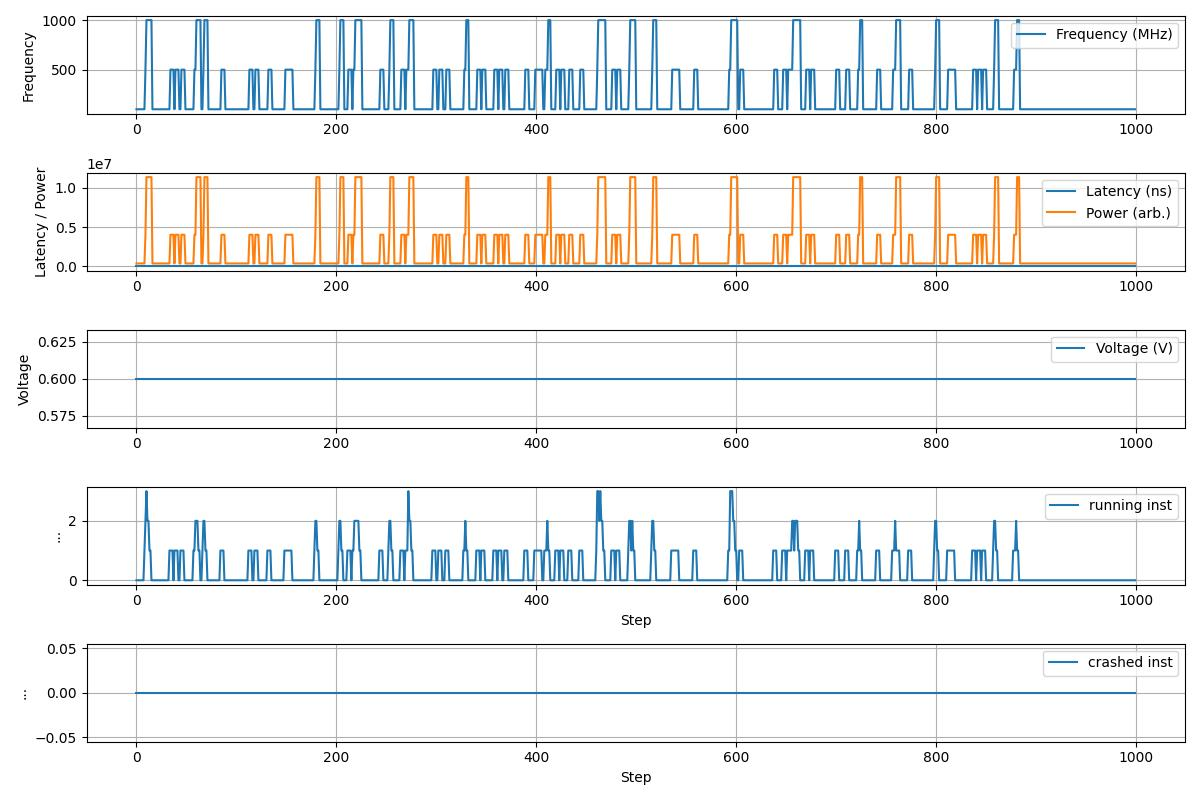
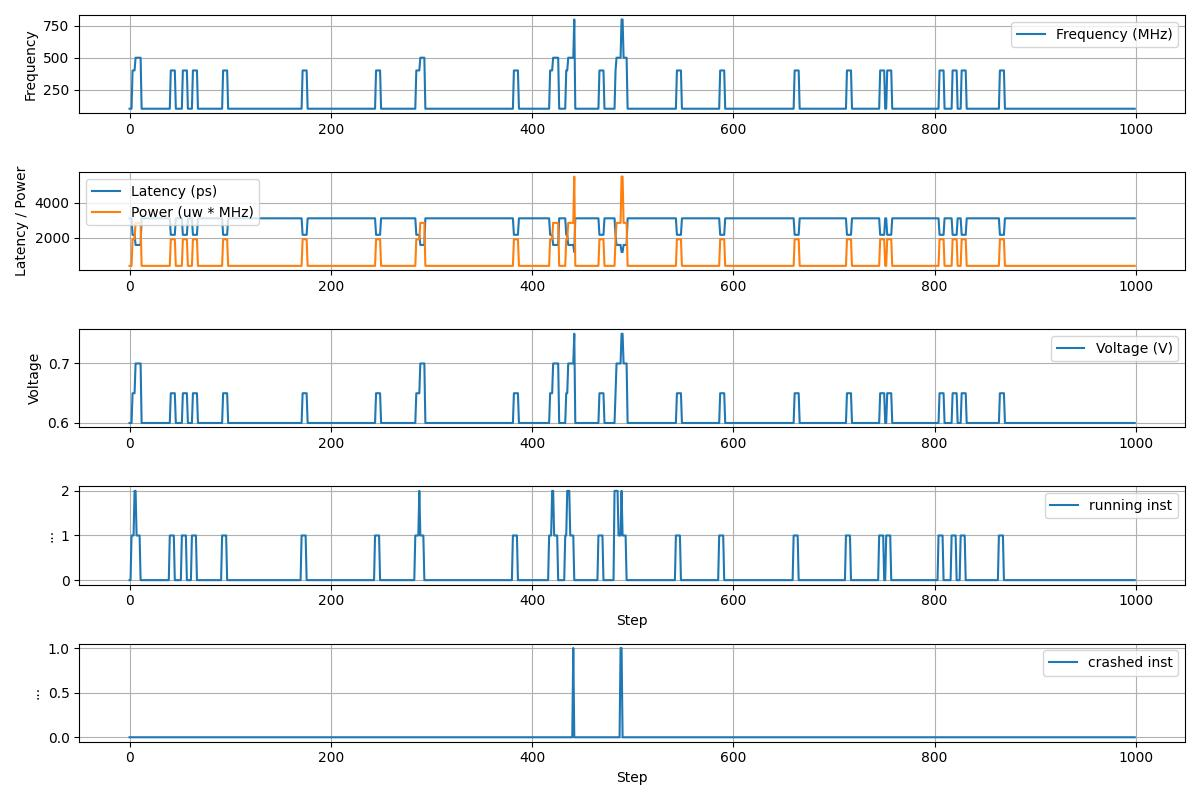
RL: added transistor mapping to RL

diff --git a/RL/HEnvDQN.py b/RL/HEnvDQN.py
@@ -6,9 +6,10 @@ import random
 import math
 from typing import List
 from copy import deepcopy
+from collections import defaultdict
 
 from tool.log import Log
-import cadence
+from cadence.hardware import Hardware, hardware_debug
 
 MAX_STEP = 1000
 MAX_BACKLOG_SIZE = 1000
@@ -119,12 +120,29 @@ class Backlog():
         return True
 
 
-def random_backlog(inst_length):
+def random_backlog(inst_length, distance=0, max_rate=1000, force_length=False):
+    """in distance, only max_rate instruction exist concurently"""
     inst_lst = []
+    step_set = dict()
     for i in range(inst_length):
         start_step = random.randrange(0, MAX_STEP-100)
-        inst = Instruction(start_step, 5)  
-        inst_lst.append(inst)
+        inst = Instruction(start_step, 5)
+        
+        exist = False
+        counter = 0
+        for dis in range(-distance, distance+1):
+            if step_set.get(inst.start_step + dis, -1) == -1:
+                step_set[inst.start_step + dis] = 0
+            counter += step_set[inst.start_step + dis]
+            if counter == max_rate:
+                exist = True
+                break
+        
+        if not exist:
+            inst_lst.append(inst)
+            step_set[inst.start_step] += 1
+        elif force_length:
+            i -= 1
     inst_lst.sort(key = lambda inst: inst.start_step)
     return Backlog(inst_lst)
 
@@ -145,32 +163,30 @@ class SystolicArrayEnv(gym.Env):
     def __init__(self):
         super().__init__()
 
-        self.voltage_levels = [0.60, 0.70, 0.80, 0.90]
+        self.hardware = Hardware()
+
         self.frequency_levels = list(range(100, 1000+1, 100))
 
-        self.Nv = len(self.voltage_levels)
         self.Nf = len(self.frequency_levels)
-        self.action_space = spaces.Discrete(self.Nv * self.Nf)
+        self.action_space = spaces.Discrete(self.Nf)
 
         # observation: volt_norm, freq_norm, latency_norm, power_norm, backlog_norm, processed_norm, insert_rate_norm
-        low = np.array([0.]*6, dtype=np.float32)
-        high = np.array([1.]*6, dtype=np.float32)
+        low = np.array([0.]*4, dtype=np.float32)
+        high = np.array([1.]*4, dtype=np.float32)
         self.observation_space = spaces.Box(low=low, high=high, dtype=np.float32)
 
         # parameters
-        # self.max_backlog = MAX_BACKLOG_SIZE
         self.max_backlog = 5
         self.max_step = MAX_STEP
         self.max_processed = 25
 
-        self.max_voltage = float(self.voltage_levels[-1])
+        self.max_voltage = self.hardware.get_max_mapping_voltage()
         self.max_frequency = float(self.frequency_levels[-1])
-        # for normalization stable nonzero denominators
-        self.max_latency = self._latency_from_freq(max(1, int(self.max_frequency)))
-        self.max_power = self._power_from_freq(self.max_voltage, self.max_frequency)
+        self.max_latency = self.hardware.get_max_mapping_delay()
+        self.max_power = self.hardware.get_max_mapping_power() * self.max_frequency
 
         # internal state
-        self.current_voltage = 0.0
+        self.vdd = 0.0
         self.current_frequency = 0.0
 
         self.latency = 0.0
@@ -185,38 +201,26 @@ class SystolicArrayEnv(gym.Env):
         self.prev_frequency = 0.0
         self.current_step = 0
 
-        # random seed
         self.seed()
 
-    # ----------------- gym API -----------------
     def seed(self, s=None):
         random.seed(s)
         np.random.seed(s)
 
+
     def reset(self, insert_rate=None):
-        # choose start volt/freq (middle)
-        self.current_voltage = self.voltage_levels[0]
         self.current_frequency = self.frequency_levels[0]
         self.prev_frequency = self.current_frequency
+        self.vdd = self.hardware.get_vdd(self.current_frequency)
 
-        # backlog random start small to encourage learning
-        self.backlog = random_backlog(100)
+        self.backlog = random_backlog(30, distance=4, max_rate=2)
         self.backlog_running = self.backlog.count_running() #random.randint(0, max(1, self.max_backlog // 10))
         self.backlog_crashed = self.backlog.count_crashed(0)
-        # self.processed = 0
-
-        # choose fixed insert_rate for the whole episode (so agent can learn to adapt)
-        # if insert_rate is None:
-        #     # choose between 0..max_insert
-        #     max_insert = max(1, self.max_backlog // 40)
-        #     self.insert_rate = random.randint(0, max_insert)
-        # else:
-        #     self.insert_rate = int(insert_rate)
-        # self.insert_rate = 0
 
         self.current_step = 0
         self._update_derived()
         return self._get_obs()
+
 
     def step(self, action, inference=False):
         """
@@ -231,22 +235,15 @@ class SystolicArrayEnv(gym.Env):
         assert self.action_space.contains(action), "Invalid action"
 
         # map action int -> (v_idx, f_idx)
-        v_idx = action // self.Nf
-        f_idx = action % self.Nf
+        # v_idx = action // self.Nf
+        f_idx = action #% self.Nf
         # clamp indices
-        v_idx = int(np.clip(v_idx, 0, self.Nv - 1))
+        # v_idx = int(np.clip(v_idx, 0, self.Nv - 1))
         f_idx = int(np.clip(f_idx, 0, self.Nf - 1))
 
         # apply action
-        self.current_voltage = float(self.voltage_levels[v_idx])
         self.current_frequency = float(self.frequency_levels[f_idx])
         self._update_derived()
-
-        # 1) process before arrivals (causal)
-        # prev_backlog = int(self.backlog_size)
-        # self.processed = self._process_capacity(self.current_frequency)
-        # self.processed = min(self.processed, self.backlog_size)
-        # self.backlog_size = max(0, self.backlog_size - self.processed)
 
         self.backlog.render(self.current_step, self.current_frequency, 2000)
         # self.backlog_size = self.backlog.get_propagation(self.current_step, self.current_frequency)
@@ -264,15 +261,15 @@ class SystolicArrayEnv(gym.Env):
         # diff_term = -0.01 * (self.backlog_size / self.max_backlog)**2
         # if self.backlog_size > 5:
         #     diff_term -= 2 * self.backlog.count_running()
-        diff_term += -7 * self.backlog_crashed
+        diff_term += -10 * self.backlog_crashed
         
         # self.backlog_size = int(min(self.max_backlog, self.backlog_size + arrived))
 
         power_penalty = (self.power / (self.max_power + 1e-9))
         # switch_penalty = 0.2 * (abs(self.current_frequency - self.prev_frequency) / (self.max_frequency + 1e-9))
         switch_penalty = 0
-        if self.current_frequency != self.prev_frequency:
-            switch_penalty += 0.1
+        # if self.current_frequency != self.prev_frequency:
+        #     switch_penalty += 0.1
         self.prev_frequency = self.current_frequency
         
         reward = float(diff_term - power_penalty - switch_penalty)
@@ -283,14 +280,21 @@ class SystolicArrayEnv(gym.Env):
 
         # update prev frequency for next step
         if inference:
-            # print(f"step [{self.current_step}]({reward:5.3f}): {diff_term:.3f}({self.backlog_crashed}) {power_penalty:.3f} {switch_penalty:.3f} [f={self.current_frequency}]")
+            # log.println(
+            #     hardware_debug(
+            #         self.hardware, 
+            #         self.current_step, 
+            #         self.current_frequency, 
+            #         self.vdd, 
+            #         self.hardware.get_delay_power(self.vdd)
+            #     )
+            # )
             log.println(
-                f"[{self.current_step}]({reward:6.3f}), " +\
+                f"[{self.current_step}] [f:{self.current_frequency:4}] ({reward:6.3f}) (power_penalty:{power_penalty:4}, freq_change_penalty:{switch_penalty:4}), " +\
                 f"[f:{self.current_frequency:6}], [running:{self.backlog_running:3}, crashed:{self.backlog_crashed}]] " +\
                 f""
             )
 
-        # bookkeeping
 
             
         # info handy for debugging/inference
@@ -316,30 +320,20 @@ class SystolicArrayEnv(gym.Env):
         cap = int((float(freq) / max(1.0, self.max_frequency)) * float(self.max_processed))
         return max(0, cap)
 
-    def _latency_from_freq(self, f):
-        # prevent divide by zero: use large latency when f==0
-        if f <= 0:
-            return 20.0
-        return 1000.0 / float(f)
-
-    def _power_from_freq(self, v, f):
-        # simple approximate power model, scale to keep numbers reasonable
-        frac = float(f) / max(1.0, self.max_frequency)
-        # P ~ V^2 * f but we keep V independently from freq here
-        return (v) * (f**1.5) * 1000
-
     def _update_derived(self):
         # update latency & power for normalization / observation
-        self.latency = self._latency_from_freq(self.current_frequency)
-        self.power = self._power_from_freq(self.current_voltage, self.current_frequency)
+        self.vdd = self.hardware.get_vdd(self.current_frequency)
+        delay_power = self.hardware.get_delay_power(self.vdd)
+        self.latency = delay_power[0]
+        self.power = delay_power[1] * self.current_frequency
 
     def _get_obs(self):
-        # normalized observation 7-vector, clipped into [0,1]
+        # normalized observation vector, clipped into [0,1]
         obs = np.array([
-            float(self.current_voltage) / (self.max_voltage + 1e-9),
+            # float(self.current_voltage) / (self.max_voltage + 1e-9),
             float(self.current_frequency) / (self.max_frequency + 1e-9),
             
-            float(self.latency) / (self.max_latency + 1e-9),
+            # float(self.latency) / (self.max_latency + 1e-9),
             float(self.power) / (self.max_power + 1e-9),
             
             float(self.backlog_running) / (self.max_backlog + 1e-9),
@@ -349,6 +343,5 @@ class SystolicArrayEnv(gym.Env):
         ], dtype=np.float32)
         return np.clip(obs, 0.0, 1.0)
 
-    # convenient render for debug
     def render(self, mode='human'):
         print(f"step {self.current_step:4d} freq {self.current_frequency:4.0f}MHz backlog {self.backlog_size:4d} insert {self.insert_rate} proc {self.processed} power {self.power:.2f}")

diff --git a/RL/RLAgentDQN.py b/RL/RLAgentDQN.py
@@ -8,7 +8,7 @@ from stable_baselines3.common.monitor import Monitor
 
 from HEnvDQN import SystolicArrayEnv, MAX_STEP
 
-TOTAL_TRAIN_TIMESTEPS = 200_000
+TOTAL_TRAIN_TIMESTEPS = 400_000
 TRAIN_CPU = 1
 TOTAL_INFERENCE_EPOCH = 100
 MODEL_FILENAME = f"ppo.{__file__}.model"
@@ -66,7 +66,7 @@ if __name__ == "__main__":
             action, _ = model.predict(obs, deterministic=True)
             obs, reward, done, info = env.step(int(action), inference=True)
 
-            voltages.append(env.current_voltage)
+            voltages.append(env.vdd)
             freqs.append(env.current_frequency)
             latencies.append(env.latency)
             powers.append(env.power)
@@ -91,8 +91,8 @@ if __name__ == "__main__":
         plt.grid(True)
 
         plt.subplot(5,1,2)
-        plt.plot(latencies, label='Latency (ns)')
-        plt.plot(powers, label='Power (arb.)')
+        plt.plot(latencies, label='Latency (ps)')
+        plt.plot(powers, label='Power (uw * MHz)')
         plt.ylabel("Latency / Power")
         plt.legend()
         plt.grid(True)
